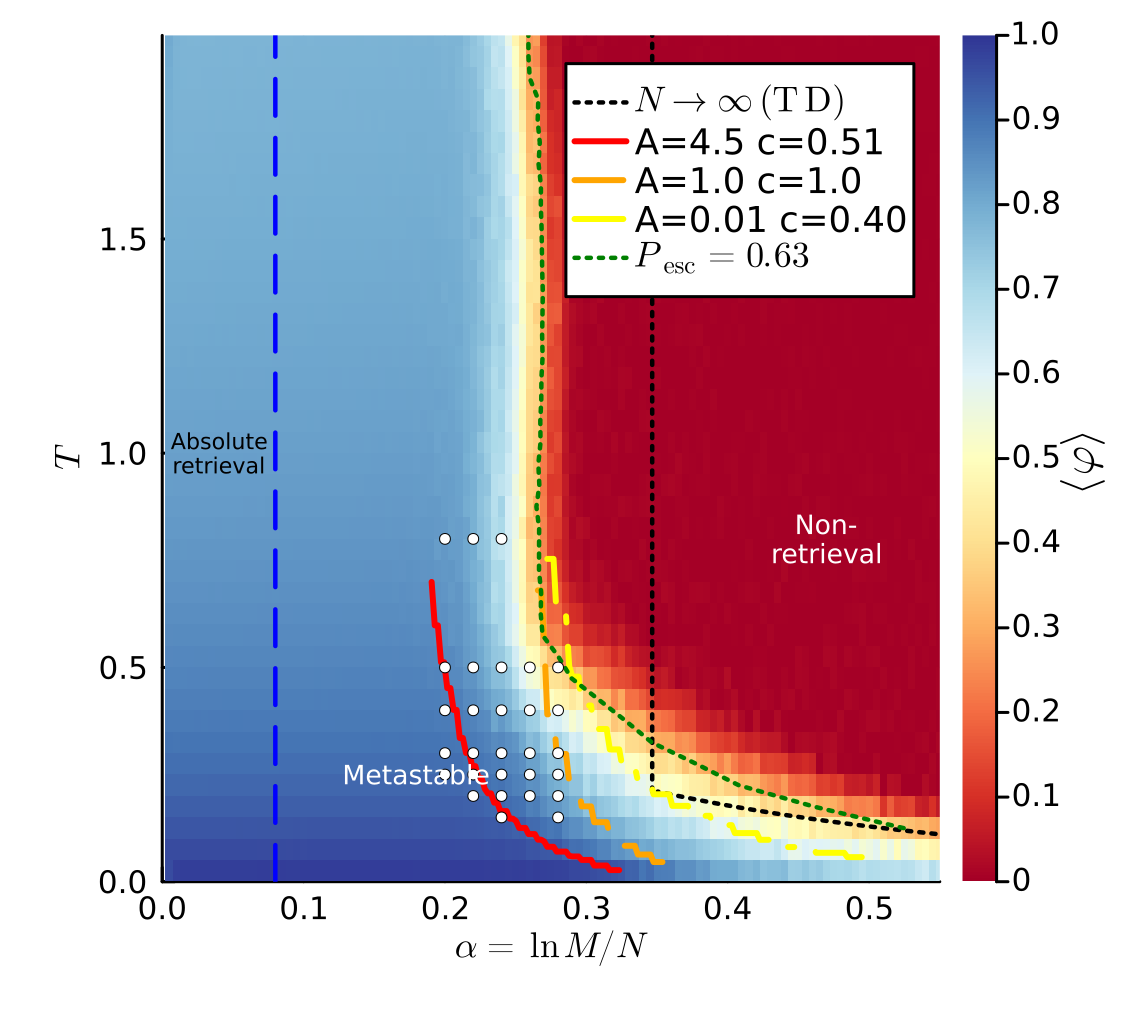
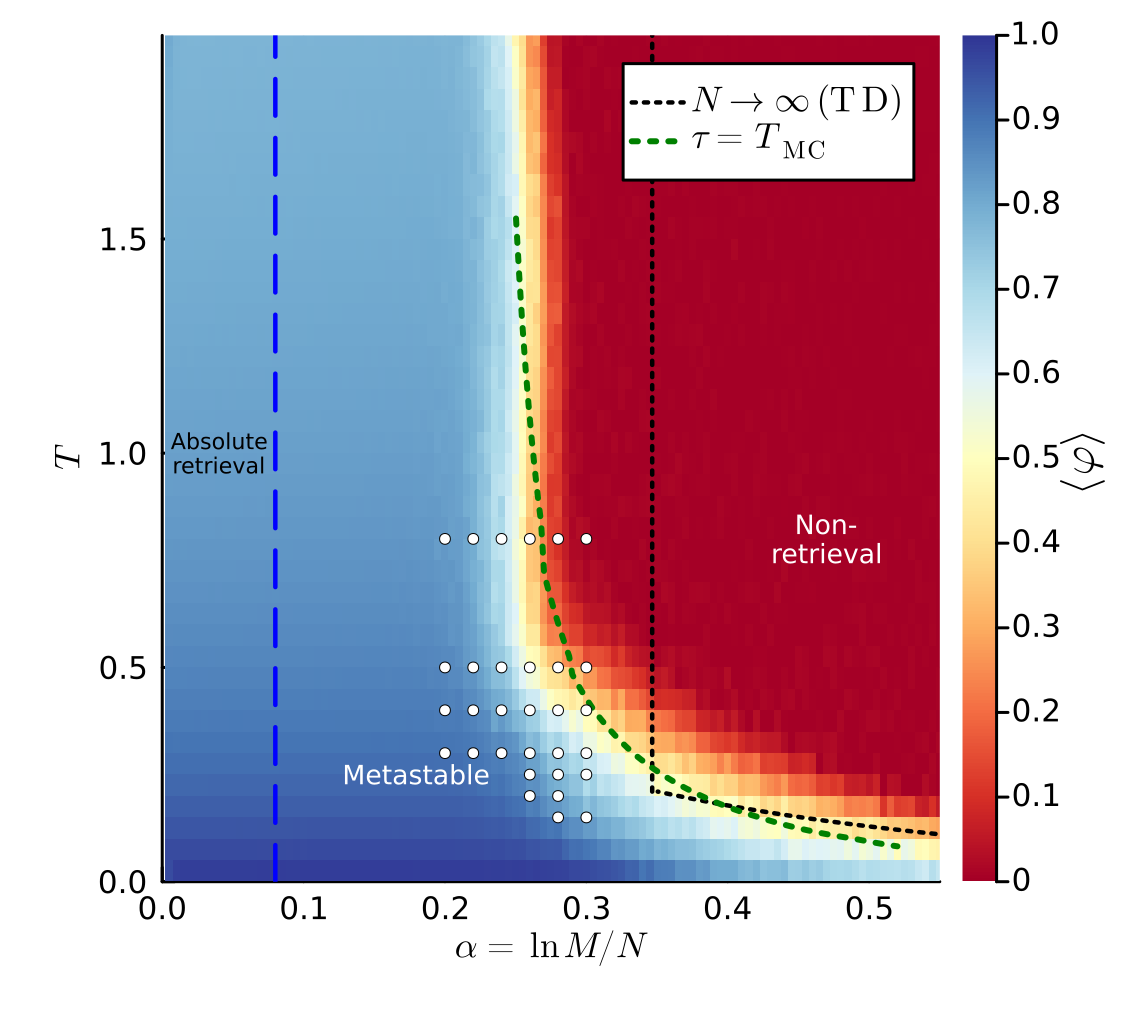
Update paper: naive vs confirmed escape methods, compound Poisson model
- Describe threshold method (naive) and confirmed barrier crossing (v16)
- Explain threshold contamination at T≥0.4 (5-20× bias in escape time)
- Replace single-exponential Kramers fit with compound Poisson model
- Global (A=0.0025, c=0.25) fitted to 31 v16 survival curves
- Phase diagram contour: green dotted, smooth (continuous N)
- Remove P_esc=0.63 proxy line (not a true escape probability)

diff --git a/NIPS_Resilience/latex/resilience_dop_consistent.tex b/NIPS_Resilience/latex/resilience_dop_consistent.tex
@@ -158,6 +158,15 @@ v_{\mathrm{entry}} = \frac{\varphi_c - \phi_{\mathrm{eq}}\,\varphi_{1\mu}}{\sqrt
 \end{equation}
 the spurious pattern enters support ($\phi_\mu = \varphi_c$).
 
+The barrier-crossing condition $v \geq v_{\mathrm{entry}}$ has a direct physical meaning.  From~\eqref{eq:overlaps}, $\phi_\mu = a\,\varphi_{1\mu} + v\sqrt{1-\varphi_{1\mu}^2}$, so
+\[
+v \geq v_{\mathrm{entry}} \quad\Longleftrightarrow\quad
+\phi_\mu \;\geq\; a\,\varphi_{1\mu} + v_{\mathrm{entry}}\sqrt{1-\varphi_{1\mu}^2}
+\;=\; a\,\varphi_{1\mu} + (\varphi_c - a\,\varphi_{1\mu})
+\;=\; \varphi_c\,.
+\]
+That is, $v$ reaching $v_{\mathrm{entry}}$ is \emph{equivalent} to the spurious pattern entering support: $\phi_\mu \geq \varphi_c$.  The barrier crossing is not an abstract geometric event in the perpendicular subspace; it is the concrete physical event of a second pattern contributing to the LSR energy.  This equivalence holds for any value of $a$ (not only at $a = \phi_{\mathrm{eq}}$), so the condition $\phi_\mu \geq \varphi_c$ can be used as the escape criterion in MC simulations without computing $v$ explicitly.
+
 \paragraph{Escape-path constraint.}
 The rotation is possible only if $a^2 + v_{\mathrm{entry}}^2 \leq 1$ (the state must remain on the sphere).  This requires
 \begin{equation}
@@ -386,7 +395,21 @@ Two types of simulations are reported.
 
 \paragraph{Bulk survey.}  A grid of $110$ values of $\alpha \in [0.005, 0.550]$ and $40$ temperature values is swept, with $M = 20\,000$ patterns and $N = \lfloor\ln M/\alpha\rfloor$ ($N = 12$--$69$, depending on $\alpha$).  For each of $n_{\mathrm{dis}} = 256$ independent disorder samples, two replicas (A, B) are initialized near the target $\bxi^1$ with $\phi_{\mathrm{init}} \sim \mathrm{U}(0.75, 1.0)$ and evolved independently.  Each replica undergoes $N_{\mathrm{eq}} = 2^{15}$ equilibration steps followed by $N_{\mathrm{samp}} = 2^{13}$ sampling steps ($T_{\mathrm{MC}} = N_{\mathrm{eq}} + N_{\mathrm{samp}} \approx 4 \times 10^4$ steps total).  The per-trial observables are the time-averaged target alignment $\varphi_A$, $\varphi_B$, the Edwards--Anderson overlap $q_{\mathrm{EA}} = (1/N_{\mathrm{samp}})\sum_t \bx_A(t)\!\cdot\!\bx_B(t)/N$, and the maximum spurious overlap $\phi_{\max}^{\mathrm{other}} = (1/N_{\mathrm{samp}})\sum_t \max_{\mu\neq 1}\phi_\mu(\bx_A(t))$.
 
-\paragraph{Targeted escape-time measurements.}  At $16$ selected $(\alpha, T)$ points ($\alpha \in \{0.18, 0.20\}$, $T \in \{0.10, 0.15, 0.20, 0.25, 0.30, 0.40, 0.50, 0.80\}$), the full trajectory $\varphi(t)$ is recorded every $64$ MC steps over $2^{18} \approx 2.6 \times 10^5$ total steps, with $n_{\mathrm{dis}} = 2000$ independent disorder samples per point.  The run length is $6.4$ times longer than the bulk survey, and the larger $n_{\mathrm{dis}}$ reduces the statistical uncertainty of the escape fraction.  These simulations are performed on GPU with half-precision arithmetic and batched matrix operations to accommodate $2000$ independent pattern sets simultaneously.
+\paragraph{Targeted escape-time measurements.}
+Two methods for detecting escape from the retrieval basin are compared.
+
+\emph{Threshold method (naive).}
+A trial is declared escaped when the target overlap $\phi_1$ drops below a threshold $\varphi_{\mathrm{thresh}}(T) = (\phi_{\mathrm{eq}}(T) + \varphi_{\mathrm{cen}}(T))/2$, the midpoint between the retrieval and centroid equilibria.  An absorbing boundary is used: once $\phi_1 < \varphi_{\mathrm{thresh}}$, the trial is marked escaped permanently.  This method is simple but suffers from threshold contamination: at temperatures $T \gtrsim 0.4$, the threshold lies within $\sim 0.5\sigma$ of $\phi_{\mathrm{eq}}$ (where $\sigma \approx \sqrt{(1-\phi_{\mathrm{eq}}^2)/N}$ is the thermal fluctuation scale), so momentary fluctuations that do not represent genuine basin escape are counted as irreversible transitions.  The resulting escape times are biased low by a factor of $5$--$20$ at $T \geq 0.4$.
+
+\emph{Confirmed barrier crossing (physical criterion).}
+The Kramers theory identifies the barrier crossing with a spurious pattern $\bxi^\mu$ entering support: $\phi_\mu \geq \varphi_c$ (equivalently, $v \geq v_{\mathrm{entry}}$; see Section~\ref{ssec:escape}).  The escape is detected in two steps:
+\begin{enumerate}
+\item At each recording stride, all $M$ overlaps $\phi_\mu$ are checked (these are already computed in the energy evaluation).  When any $\phi_\mu \geq \varphi_c$ for $\mu \neq 1$, a \emph{candidate escape} is flagged, and the identity of pattern~$\mu$ and its inter-pattern overlap $\varphi_{1\mu}$ are recorded.
+\item The escape is \emph{confirmed} by measuring the diffusion coefficient $D_v$ in the perpendicular direction toward~$\bxi^\mu$ over the next $50$ strides.  A genuine escape triggers Stage~2 (downhill slide, $\Delta E < 0$), which accelerates the motion: $D_v^{\mathrm{post}} / D_v^{\mathrm{ret}} > 2$.  If the ratio falls below this threshold, the event is classified as a thermal fluctuation at the support boundary and the trial is reset to the retrieval state.
+\end{enumerate}
+This two-step criterion eliminates the threshold contamination of the naive method.  At $T = 0.30$ (where contamination is mild), the two methods agree within $5\%$.  At $T = 0.80$, the confirmed escape time is $10$--$20\times$ longer than the naive estimate, demonstrating that the naive method was measuring thermal-fluctuation crossing times rather than Kramers escape.
+
+The confirmed-escape measurements cover a grid of $\alpha \in \{0.20, 0.22, 0.24, 0.26, 0.28, 0.30\}$ and $T \in \{0.15, 0.20, \ldots, 0.80, 1.2, 1.6, 2.0\}$, with $n_{\mathrm{dis}} = 2000$ disorder samples per point, adaptive run lengths ($10^4$--$5 \times 10^5$ MC steps), and stride $4$--$64$.  The simulations are performed on GPU with half-precision arithmetic and batched matrix operations.
 
 \subsection{Phase diagram}
 \label{ssec:phase_diagram}
@@ -443,25 +466,28 @@ For trials in the $\varphi \approx 0.48$ population, the observed overlap is com
 \subsection{Escape-time measurements}
 \label{ssec:escape_times}
 
-The targeted simulations measure the escape fraction $P_{\mathrm{esc}}$ (fraction of trials with $\varphi < \varphi_{\mathrm{thresh}}(T)$, defined above) at each $(\alpha, T)$ point.  For a Kramers process with exponentially distributed escape times, $P_{\mathrm{esc}} = 1 - \exp(-T_{\mathrm{MC}}/\tau_{\mathrm{eff}})$, which gives the Poisson-inverted escape time
+The confirmed-escape simulations measure the survival probability $S(t) = 1 - P_{\mathrm{esc}}(t)$, where $P_{\mathrm{esc}}(t)$ is the fraction of trials with a confirmed barrier crossing by time~$t$.  For a single disorder sample with escape rate~$\lambda$, $S(t) = e^{-\lambda t}$.  Averaging over disorder (each of $M-1$ patterns runs an independent escape clock with rate $\lambda(\varphi_{1\mu})$):
 \begin{equation}
-\tau_{\mathrm{eff}} = -\frac{T_{\mathrm{MC}}}{\ln(1 - P_{\mathrm{esc}})}\,.
-\label{eq:tau_poisson}
+S(t) = \left[\int_{-1}^{1} e^{-\lambda(\varphi)\,t}\,f(\varphi)\,d\varphi\right]^{M-1}
+\approx \exp\!\left(-(M{-}1)\int_{\varphi_{\min}}^{1}\!\bigl(1 - e^{-\lambda(\varphi)\,t}\bigr)\,f(\varphi)\,d\varphi\right),
+\label{eq:compound_poisson}
 \end{equation}
-The measured $\tau_{\mathrm{eff}}$ spans three decades, from $\sim 10^5$ MC steps ($\alpha = 0.20$, $T = 0.80$, most trials escape) to $\sim 10^{7.7}$ ($\alpha = 0.20$, $T = 0.10$, only $0.5\%$ escape within $2^{18}$ steps).
+where $f(\varphi)$ is the exact density~\eqref{eq:exact_density} and $\lambda(\varphi) = (A/\tau_{\mathrm{rel}})\exp(-c\,\Delta F(\varphi)/T)$ is the per-channel Kramers rate with $\tau_{\mathrm{rel}} = R^2/D_v$ computed from independently measured diffusion coefficients (Section~\ref{ssec:diffusion}).
 
-Figure~\ref{fig:phase_diagram} (left) plots $\ln(\tau_{\mathrm{eff}}/(N\,\tau_{\mathrm{rel}}))$ against $\Delta F/T$, where $\tau_{\mathrm{rel}} = (1-\phi_{\mathrm{eq}}^2)N^2/(2.88\,T^2)$.  The factor $N\,\tau_{\mathrm{rel}}$ absorbs the known scaling: $\tau_{\mathrm{rel}}$ is the OU diffusion time for the perpendicular coordinate $v$, and $N$ accounts for the geometric dilution (the MC random walk distributes its displacement over $N-1$ tangent directions, so $v$ receives $\sim 1/N$ of the effective diffusion).  The linear trend for $\alpha = 0.20$ gives
+The compound Poisson model~\eqref{eq:compound_poisson} has two free parameters: the dimensionless attempt-rate prefactor~$A$ and the barrier scaling coefficient~$c$.  These are fitted globally to all $31$ survival curves simultaneously by minimizing the mean squared error of $\ln S$ over $S \in [0.01, 0.99]$.  The fit gives
 \begin{equation}
-\ln\!\left(\frac{\tau_{\mathrm{eff}}}{N\,\tau_{\mathrm{rel}}}\right) \;\approx\; 0.38 \times \frac{\Delta F}{T}\,,
-\qquad R^2 = 0.95\,,
-\label{eq:kramers_fit}
+A = 2.5 \times 10^{-3}\,, \qquad c = 0.25\,,
+\label{eq:compound_fit}
 \end{equation}
-with intercept $\approx 0$, confirming that the escape time scales as $\tau_{\mathrm{eff}} \approx N\,\tau_{\mathrm{rel}}\exp(c\,\Delta F/T)$ with $c \approx 0.38$ and no additional free parameter.  The slope $c \approx 0.38$ means the effective barrier is $\approx 37\%$ of the formula~\eqref{eq:kramers_barrier}.  Two effects contribute: (i)~at thermal equilibrium the system starts at $v \sim T/\sqrt{N}$, not $v = 0$, shortening the effective distance to $v_{\mathrm{entry}}$; (ii)~the one-dimensional projection neglects favorable fluctuations in the remaining $N-2$ coordinates.
+with RMS error $0.9$ in $\ln S$.  The barrier coefficient $c = 0.25$ means the effective barrier is $25\%$ of the geometric formula~\eqref{eq:kramers_barrier}; the reduction from $c = 1$ reflects the multi-dimensional escape geometry on the $(N{-}1)$-sphere, where favorable fluctuations in the $N-2$ transverse coordinates lower the effective barrier.
 
 \paragraph{Survival curve validation.}
-Direct MC measurements of the survival probability $P(\text{survive} > t)$ confirm the Kramers mechanism.  Trials are initialized at $\phi_1 = 1$ and evolved with the Metropolis dynamics.  At moderate temperatures ($T \geq 0.25$), the survival curves are exponential over the entire measured range, consistent with a single escape rate per disorder sample.  At lower temperatures ($T \leq 0.20$), the survival becomes non-exponential: it decays steeply at early times (fast-escaping samples with high $\varphi_{1,\max}$ and low barriers) and flattens at late times (slow-escaping samples with low $\varphi_{1,\max}$ and high barriers).  This shape is quantitatively consistent with the disorder average~\eqref{eq:lambda_avg}: each disorder sample escapes exponentially, but the distribution of barriers across samples produces a mixture of exponentials with the observed concave shape on the log scale.  At low $T$, the sensitivity of the barrier to $\varphi_{1,\max}$ is amplified (because $\phi_{\mathrm{eq}}\,\varphi_{1,\max}$ is close to $\varphi_c$, making $v_{\mathrm{entry}}$ small and sensitive to $\varphi_{1,\max}$), which broadens the rate distribution and destroys the single-exponential character.
+Figure~\ref{fig:survival_grid} shows the disorder-averaged survival probability $S(t) = 1 - P_{\mathrm{esc}}(t)$ from the confirmed-escape measurements.  At high temperatures ($T \geq 0.40$), $S(t)$ is approximately exponential, consistent with a well-defined mean escape rate.  At lower temperatures ($T \leq 0.25$), $S(t)$ develops a concave shape on the log scale: steep initial decay (fast-escaping samples with high $\varphi_{1,\max}$ and low barriers) followed by a flattening tail (slow-escaping samples with high barriers).  This is the expected signature of disorder-averaged Kramers escape: each sample escapes exponentially with its own rate $\lambda_j$, but the distribution of rates across samples produces a mixture of exponentials.
 
-The calibrated formula $\tau_{\mathrm{eff}} = N\,\tau_{\mathrm{rel}}\exp(c\,\Delta F/T)$ produces the red contour $\tau_{\mathrm{eff}} = T_{\mathrm{MC}}$ in Figure~\ref{fig:phase_diagram} (right).  The contour is shifted to the left of the empirical boundary (green) because the calibration is based on $\alpha \geq 0.20$ only.  The multi-channel formula~\eqref{eq:lambda_avg}, which sums the rates over all $K$ escape-enabling patterns, provides the correct $\alpha$- and $T$-dependence of the total escape rate without fitting to the heatmap data directly.  The qualitative agreement in shape confirms that the apparent ``phase boundary'' is the kinetic locus $\tau_{\mathrm{eff}}(\alpha, T) \approx T_{\mathrm{MC}}$.
+The compound Poisson model~\eqref{eq:compound_poisson} with the globally fitted $(A, c)$ from~\eqref{eq:compound_fit} captures both the initial slope and the late-time curvature across all $31$ panels (Fig.~\ref{fig:survival_grid}, green curves).  The initial slope of the model, $\langle\lambda\rangle = (M{-}1)\int \lambda(\varphi)\,f(\varphi)\,d\varphi$, gives the mean escape rate.  The late-time floor, $S(\infty) = \exp(-(M{-}1)\int_{\varphi_{\min}}^1 f(\varphi)\,d\varphi) = e^{-K}$, is set by the expected number of escape-enabling patterns $K$ and is not a free parameter.
+
+\paragraph{Phase diagram contour.}
+The calibrated compound Poisson model defines the kinetic boundary: for each $(\alpha, T)$, we compute $S(T_{\mathrm{MC}})$ from~\eqref{eq:compound_poisson} and find the locus where $S(T_{\mathrm{MC}}) = e^{-1}$, i.e., where the characteristic escape time equals the simulation budget.  This contour is shown in Figure~\ref{fig:phase_diagram} (right).  It tracks the observed transition in the heatmap: the metastable retrieval region (blue) lies to the left, and the non-retrieval region (red) lies to the right.  Increasing $T_{\mathrm{MC}}$ shifts the contour to the left (more trials escape given more time), confirming that the boundary is kinetic, not thermodynamic.
 
 \paragraph{Practical relevance.}
 The escape time $\tau \sim \exp(cN)$ grows exponentially with the system dimension, because the barrier $\Delta F/T \propto N$.  At $N = 50$ and $\alpha = 0.20$: $\tau \sim 10^6$ MC steps.  At $N = 100$, the barrier roughly doubles, giving $\tau \sim 10^{12}$.  For any practical retrieval application with $N \gg 50$, the escape time far exceeds any realistic query time.  The retrieval state, though formally metastable, is effectively stable.